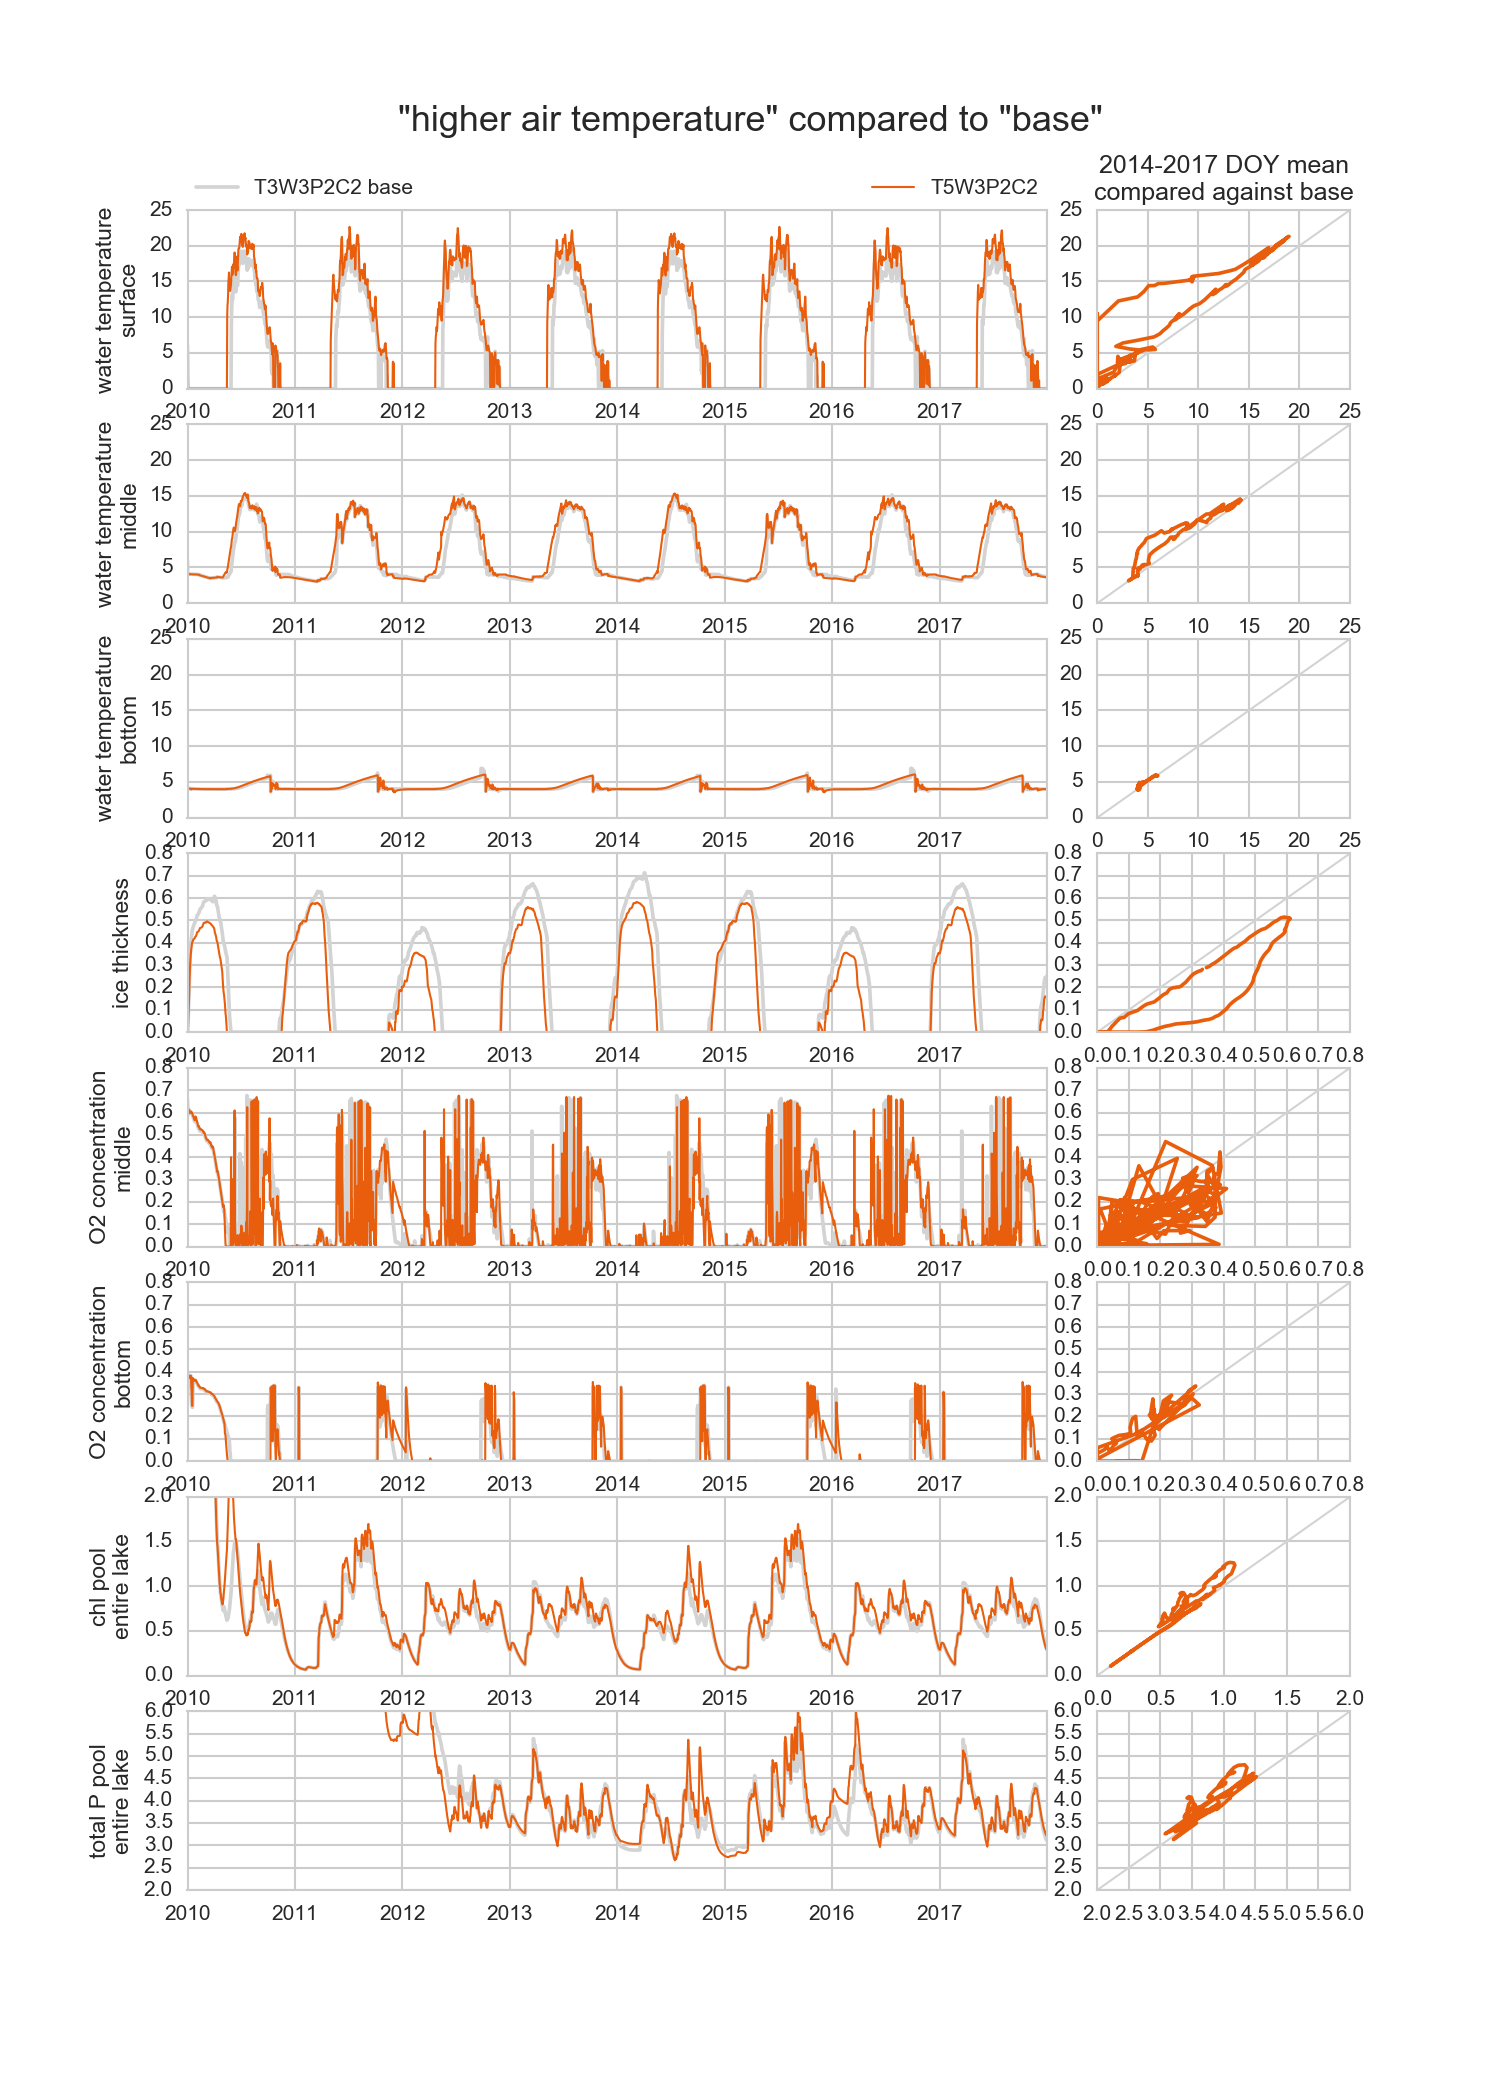
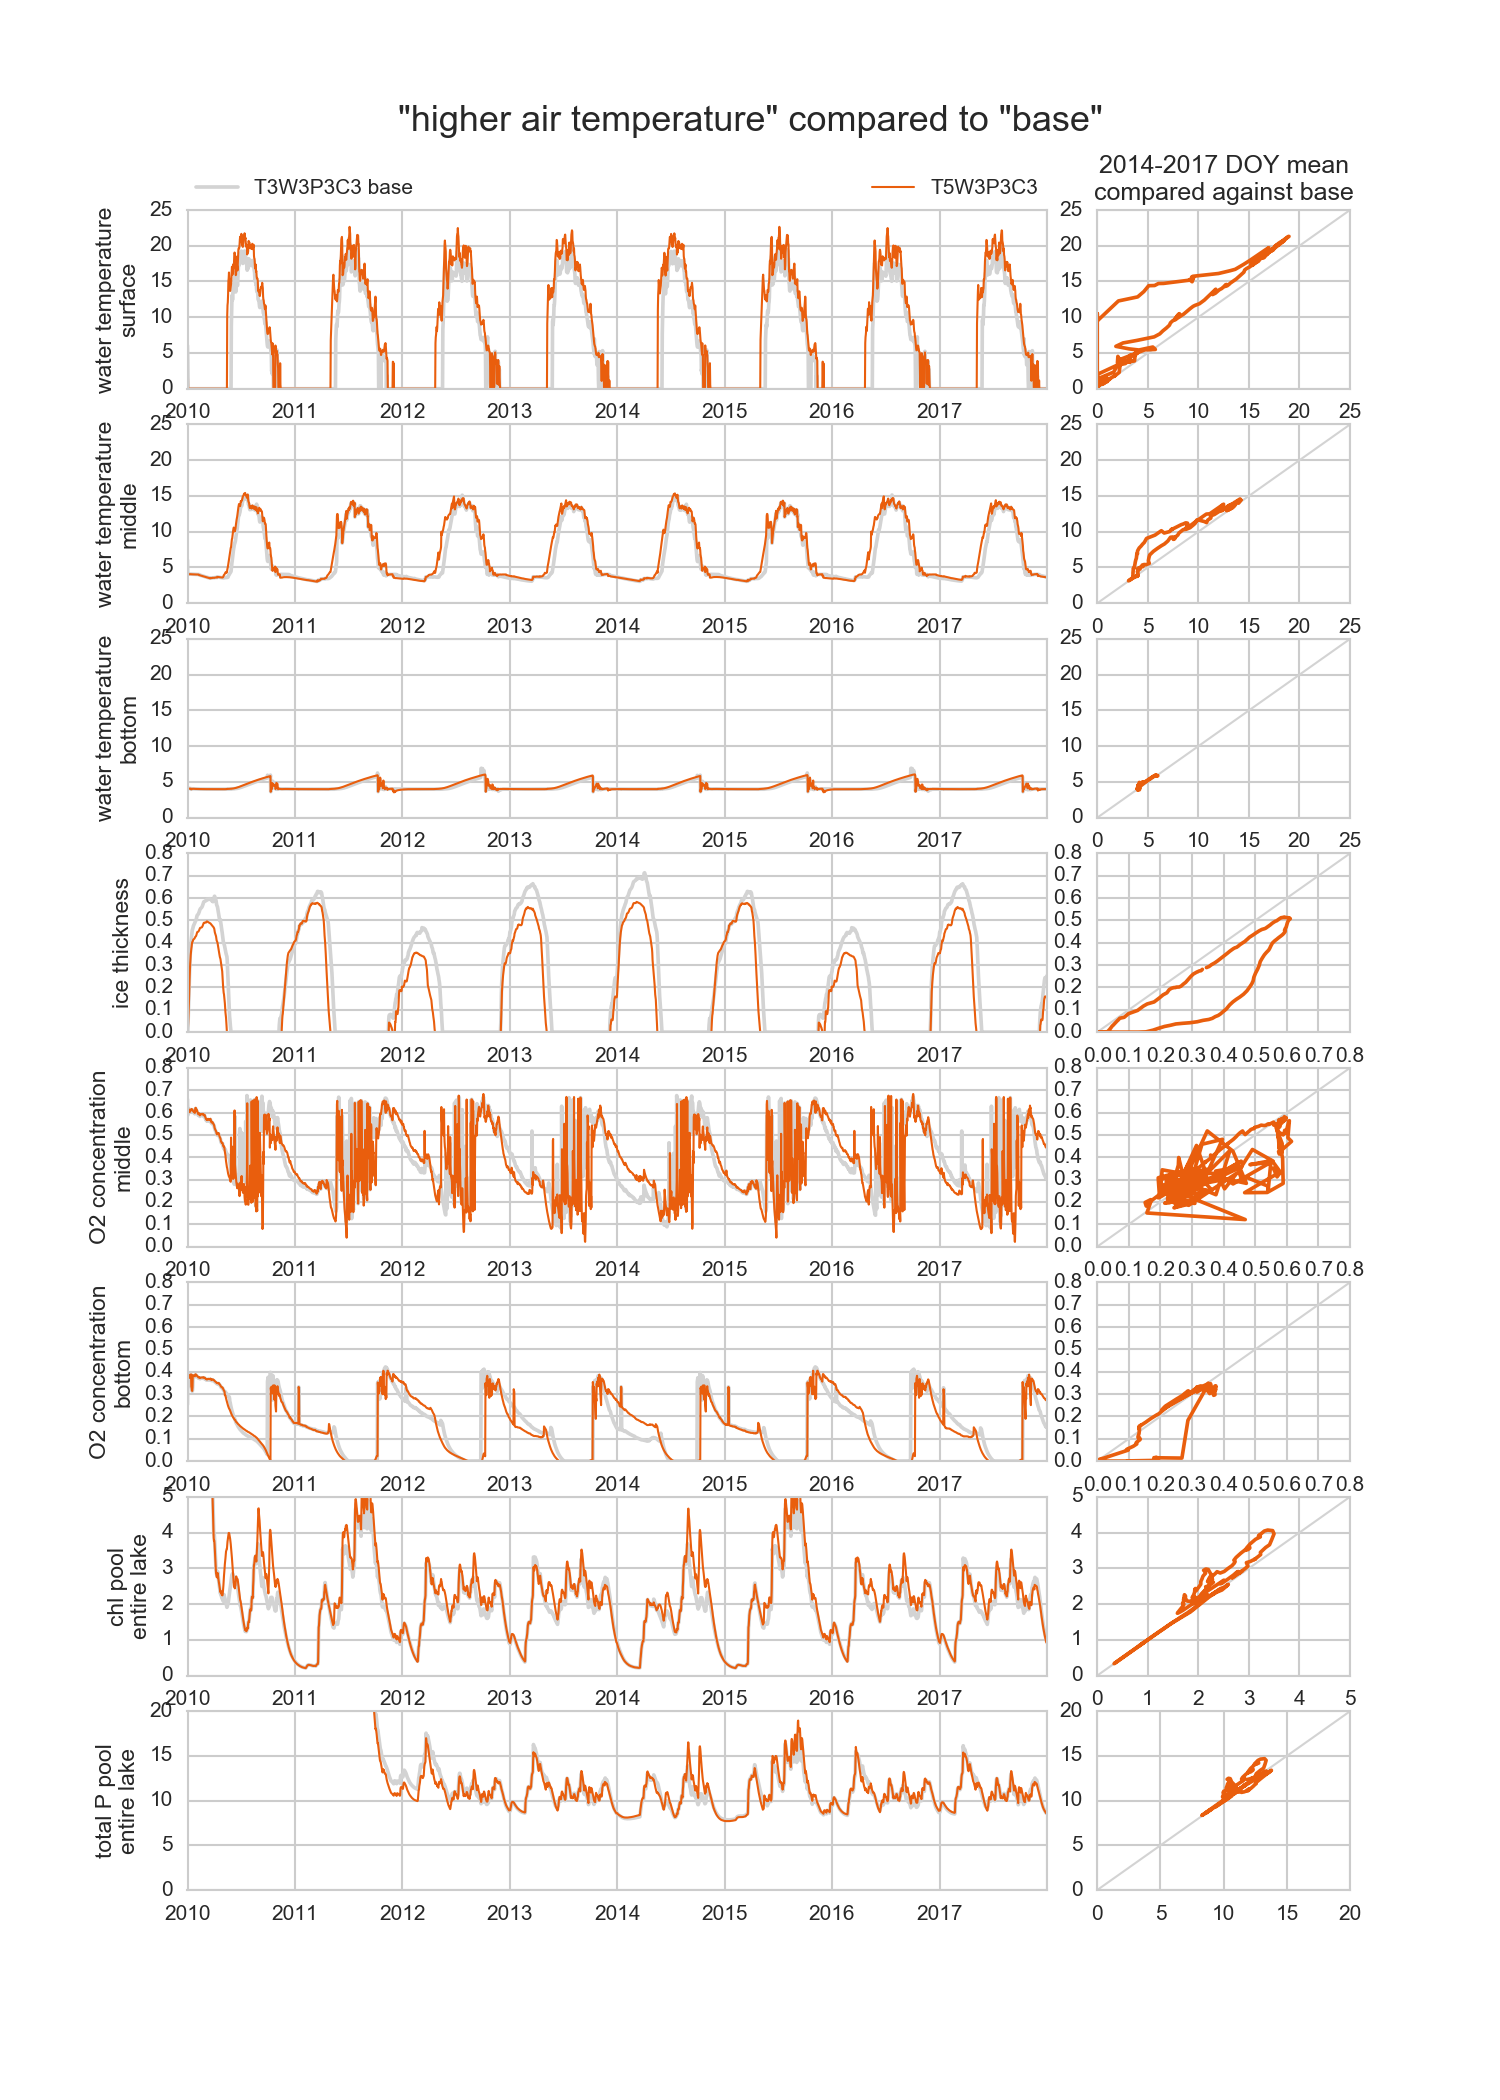
wip some crashes but much better (?)

diff --git a/simulations/08_4dim_4res/postprocessing/sim_specific.py b/simulations/08_4dim_4res/postprocessing/sim_specific.py
@@ -7,7 +7,7 @@ import os.path
 ser = pd.period_range('2010-01-01', periods=(365*4+1)*2)
 sns.set_style('whitegrid')
 
-basedir = '../simulations/id/00163/'
+basedir = '../simulations/id/00313/'
 
 design = pd.read_csv('../intermediate/parameterdict.csv')
 bath = pd.read_csv('../bathymetry.csv', header=None)
@@ -161,13 +161,13 @@ def plotsim(simids, fname, stitle):
     chlp['doy'] = chlp.index.day_of_year
     chlps = chlp.iloc[(365*4+1):, :].groupby('doy').mean().iloc[:365, :]
     chlp = chlp.drop('doy', 1)    
-    chlp.iloc[:, 0].plot(color='lightgray', ax=a7, ylim=[0, 2e0], legend=False)
+    chlp.iloc[:, 0].plot(color='lightgray', ax=a7, ylim=[0, 5e0], legend=False)
     chlp.iloc[:, 1:].plot(ax=a7, linewidth=lw, legend=False)
-    a7s.plot([0, 2e0], [0, 2e0], color='lightgray', linewidth=lw)
+    a7s.plot([0, 5e0], [0, 5e0], color='lightgray', linewidth=lw)
     for ci in range(1, chlps.shape[1]):
         a7s.plot(chlps.iloc[:, 0], chlps.iloc[:, ci])
-    a7s.set_xlim([0, 2e0])
-    a7s.set_ylim([0, 2e0])
+    a7s.set_xlim([0, 5e0])
+    a7s.set_ylim([0, 5e0])
     a7.set_ylabel('chl pool\nentire lake')
 
     ## tp (grams per whole lake)
@@ -179,13 +179,13 @@ def plotsim(simids, fname, stitle):
     tpp['doy'] = tpp.index.day_of_year
     tpps = tpp.iloc[(365*4+1):, :].groupby('doy').mean().iloc[:365, :]
     tpp = tpp.drop('doy', 1)    
-    tpp.iloc[:, 0].plot(color='lightgray', ax=a8, ylim=[2e0, 6e0], legend=False)
+    tpp.iloc[:, 0].plot(color='lightgray', ax=a8, ylim=[0, 20e0], legend=False)
     tpp.iloc[:, 1:].plot(ax=a8, linewidth=lw, legend=False)
-    a8s.plot([2e0, 6e0], [2e0, 6e0], color='lightgray', linewidth=lw)
+    a8s.plot([0e0, 20e0], [0e0, 20e0], color='lightgray', linewidth=lw)
     for ci in range(1, tpps.shape[1]):
         a8s.plot(tpps.iloc[:, 0], tpps.iloc[:, ci])
-    a8s.set_xlim([2e0, 6e0])
-    a8s.set_ylim([2e0, 6e0])
+    a8s.set_xlim([0, 20e0])
+    a8s.set_ylim([0, 20e0])
     a8.set_ylabel('total P pool\nentire lake')
 
     a1.legend(bbox_to_anchor=(0., 1.02, 1., .102), loc=3,
@@ -203,37 +203,50 @@ def plotsim(simids, fname, stitle):
 
 
 sns.set_palette('coolwarm', 2)
-plotsim([161, 165], 'results_raw/Air Temperature.png',
+plotsim([311, 315], 'results_raw/Air Temperature.png',
         'impact of air temperature')
 
-sns.set_palette('Reds_r', 2)
-plotsim([153, 173], 'results_raw/Wind Speed.png', 
-        'impact of wind speed')
+# sns.set_palette('Reds_r', 2)
+# plotsim([303, 323], 'results_raw/Wind Speed.png', 
+#         'impact of wind speed')
 
-sns.set_palette('Greens_r', 2)
-plotsim([138, 238], 'results_raw/Total P.png',
-        'impact of total P loading')
+# sns.set_palette('Greens_r', 2)
+# plotsim([263, 363], 'results_raw/Total P.png',
+#         'impact of total P loading')
 
-sns.set_palette('Reds', 2)
-plotsim([38, 538], 'results_raw/DOC.png',
-             'impact of DOC loading')
+# sns.set_palette('Reds', 2)
+# plotsim([63, 563], 'results_raw/DOC.png',
+#              'impact of DOC loading')
 
 sns.set_palette('Oranges_d', 1)
-plotsim(161, 'results_raw/AT colder.png', 
-        '"lower air temperature" compared to "base"')
-plotsim(165, 'results_raw/AT warmer.png',
+# plotsim(311, 'results_raw/AT colder.png', 
+#         '"lower air temperature" compared to "base"')
+plotsim(315, 'results_raw/AT warmer.png',
         '"higher air temperature" compared to "base"')
-plotsim(153, 'results_raw/WS calmer.png',
-        '"calmer wind compared" to "base"')
-plotsim(173, 'results_raw/WS stronger.png',
-        '"stronger wind compared" to "base"')
-plotsim(138, 'results_raw/TP lower.png', 
-        '"less TP loading compared" to "base"')
-plotsim(238, 'results_raw/TP higher.png',
-        '"greater TP loading compared" to "base"')
-plotsim(38, 'results_raw/DOC lower.png',
+# plotsim(303, 'results_raw/WS calmer.png',
+#         '"calmer wind compared" to "base"')
+# plotsim(323, 'results_raw/WS stronger.png',
+#         '"stronger wind compared" to "base"')
+# plotsim(263, 'results_raw/TP lower.png', 
+#         '"less TP loading compared" to "base"')
+# plotsim(363, 'results_raw/TP higher.png',
+#         '"greater TP loading compared" to "base"')
+plotsim(63, 'results_raw/DOC lower.png',
         '"less DOC loading compared" to "base"')
-plotsim(538, 'results_raw/DOC higher.png',
-        '"greater DOC loading compared" to "base"')
+# plotsim(563, 'results_raw/DOC higher.png',
+#         '"greater DOC loading compared" to "base"')
+
+# plotsim(1, 'test001.png', '"low in everything" compared to "base"')
+# plotsim(505, 'test505.png', '"id505" compared to "base"')
+# plotsim(5, 'test005.png', '"id005" compared to "base"')
+# plotsim(105, 'test105.png', '"id105" compared to "base"')
+# plotsim(605, 'test605.png', '"id605" compared to "base"')
+# plotsim(101, 'test101.png', '"id101" compared to "base"')
+# plotsim(601, 'test601.png', '"id601" compared to "base"')
+# plotsim(501, 'test501.png', '"id501" compared to "base"')
+# plotsim(21, 'test021.png', '"id021" compared to "base"')
+# plotsim(121, 'test121.png', '"id121" compared to "base"')
+# plotsim(521, 'test521.png', '"id521" compared to "base"')
+# plotsim(621, 'test621.png', '"id621" compared to "base"')
 
 

diff --git a/simulations/08_4dim_4res/README.md b/simulations/08_4dim_4res/README.md
@@ -36,6 +36,28 @@ Level | Temperature | Wind speed | Total P | DOC
 
 Hopefully none!
 
+Will check that all the following combinations do not crash:
+
+T | WS | TP | DOC | result
+--- | ---| ---| --- | ---
+1|1|1|1 | ok
+1|1|1|5 | ok
+1|1|5|1 | ok
+1|1|5|5 | ok
+1|5|1|1 | ok
+1|5|1|5 | ok
+1|5|5|1 | ok
+1|5|5|5 | ok
+5|1|1|1 | ok
+5|1|1|5 | ok
+5|1|5|1 | ok
+5|1|5|5 | ok
+5|5|1|1 | crashed
+5|5|1|5 | crashed
+5|5|5|1 | crashed
+5|5|5|5 | crashed
+
+
 # Raw outputs
 
 ## impact of **T**
